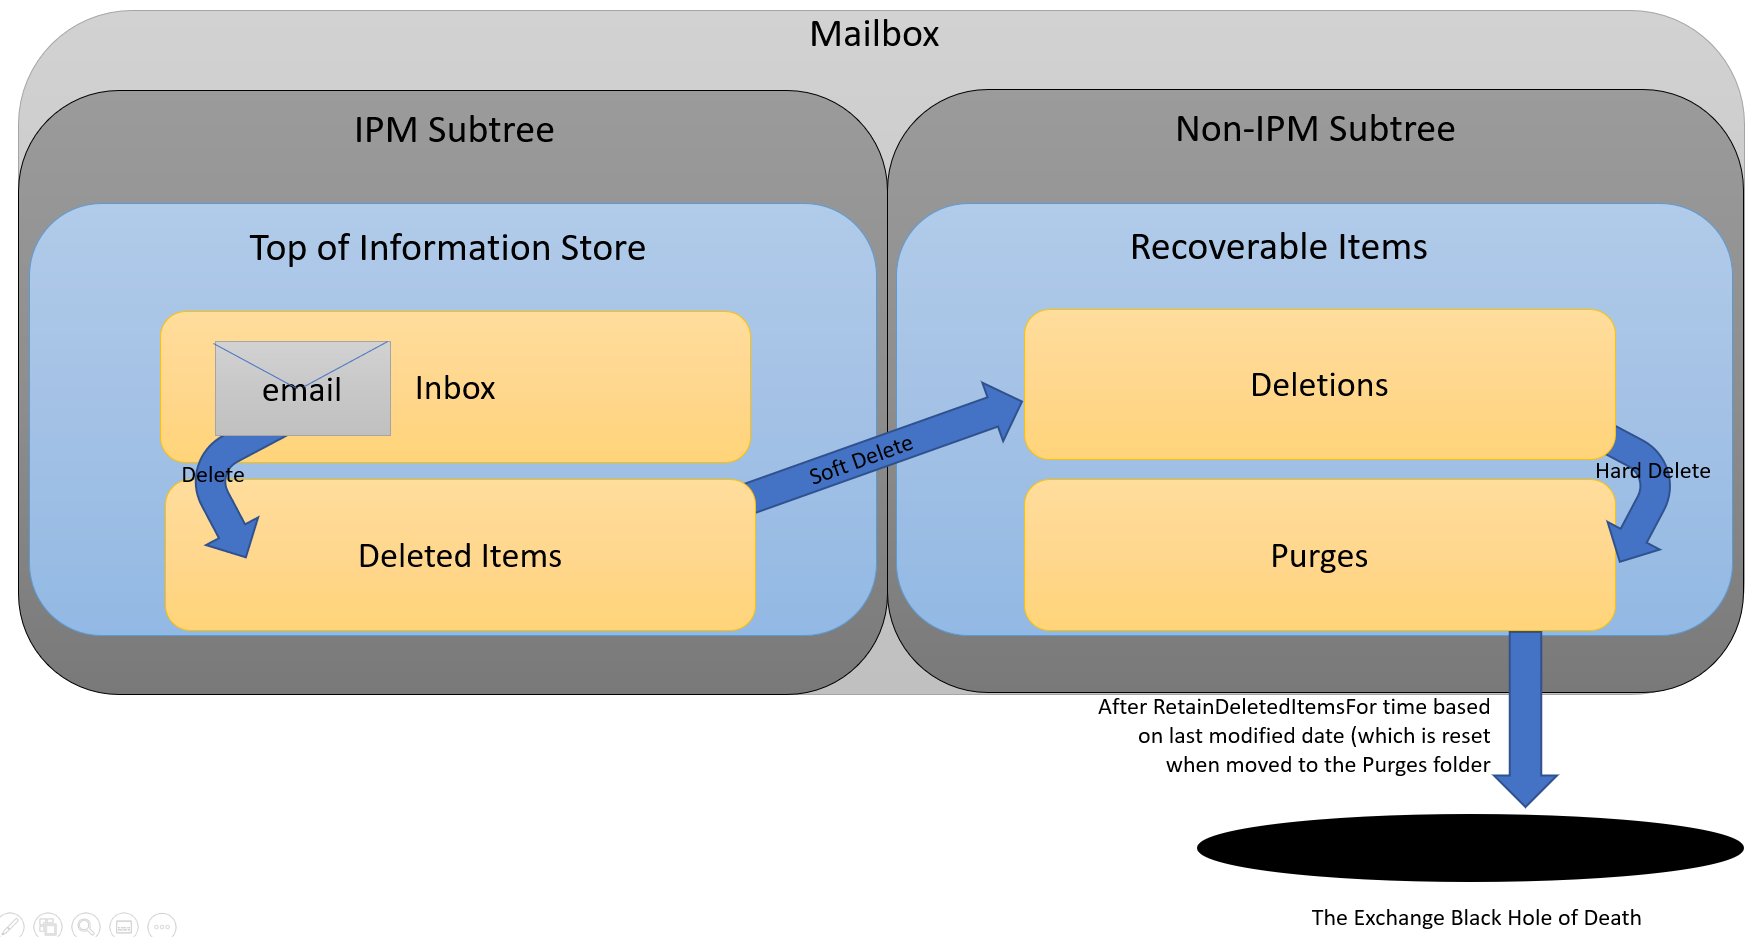
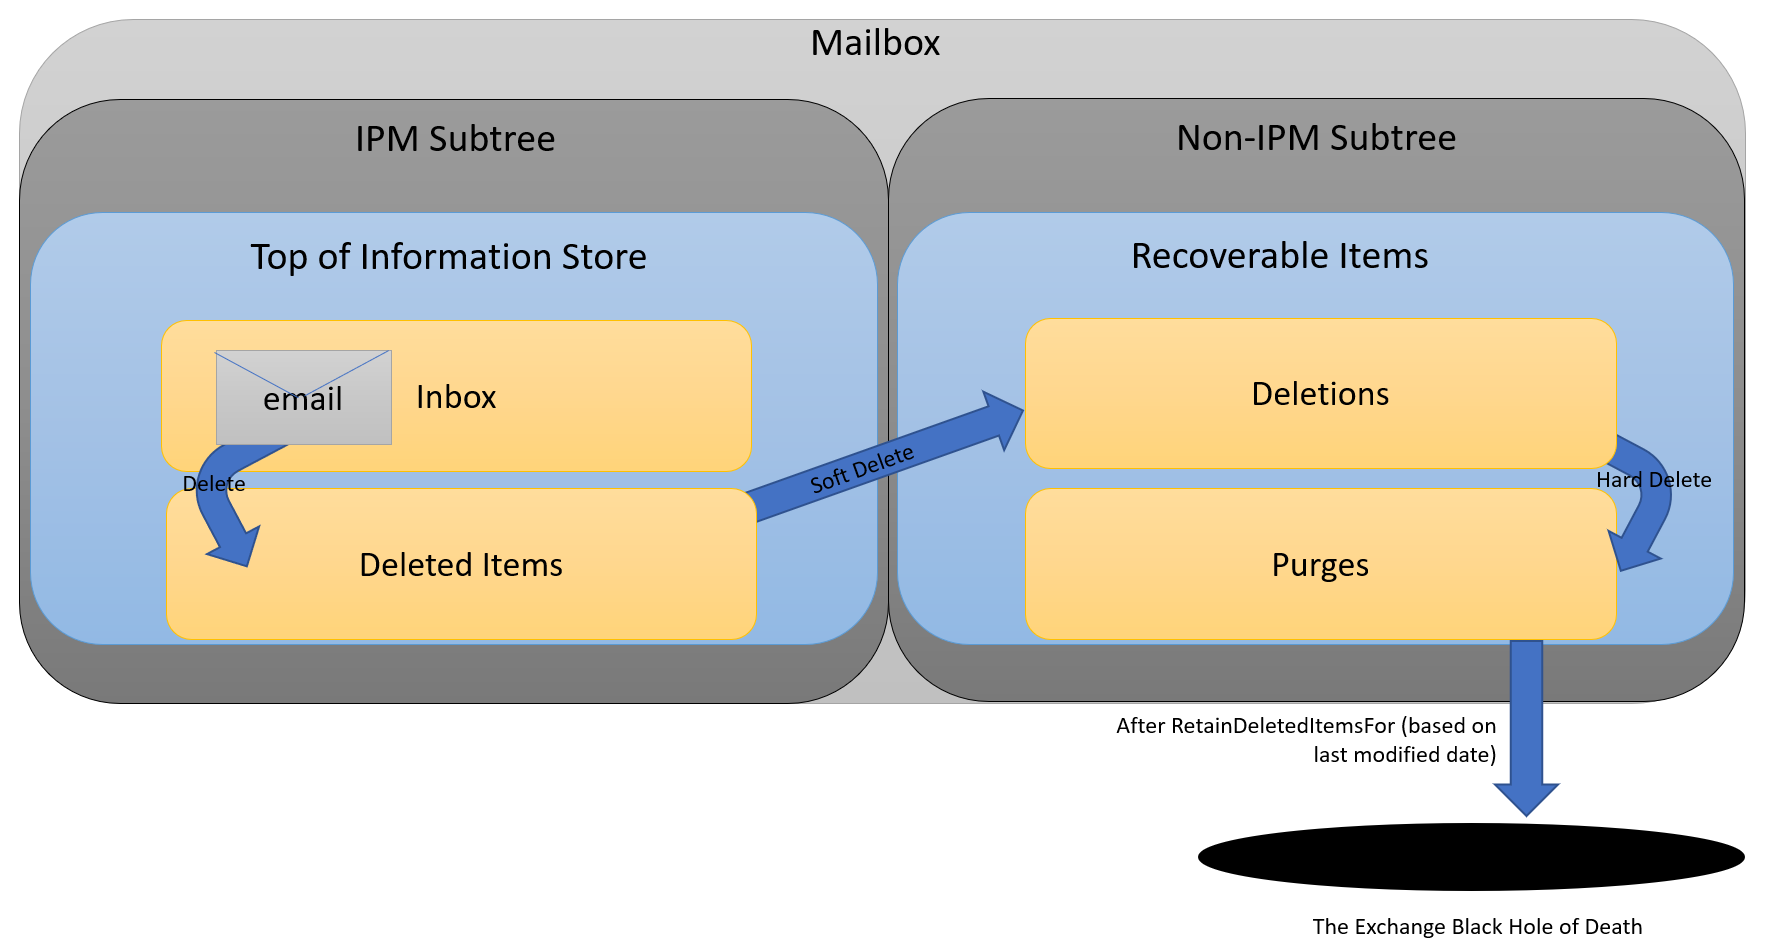
updates to ri post

diff --git a/docs/notes/mig/ri.md b/docs/notes/mig/ri.md
@@ -31,11 +31,11 @@ The Exchange mailbox can be a mysterious place.  Many people see only the face o
 
 Within the mailbox, two logical containers exist.  The first, in which most of the user-interactive and visible data is stored, is called the ‘IPM Subtree’ (or Top of Information Store).  This is exactly as it sounds –it is – to the user - the top level folder of the information store within the mailbox and houses familiar user-visible folders such as ‘Inbox’, ‘Contacts’, ‘Calendar’, ‘Deleted Items’, etc.  
 
-The second container is called the ‘non-IPM subtree’, and contains operational and configuration data related to the mailbox.  Within this non-IPM subtree, and thus virtually invisible to the user (as a folder), is a location called the Recoverable Items folder which houses it’s own set of subfolders used for various purposes including storing audit logs, calendar logging information and, of course, storing deleted items for recovery and/or retention.
+The second container is called the ‘non-IPM subtree’, and contains operational and configuration data related to the mailbox.  Within this non-IPM subtree, and thus virtually invisible to the user (as a folder), is a location called the **Recoverable Items (RI) folder** which houses it’s own set of subfolders used for various purposes including storing audit logs, calendar logging information and, of course, storing deleted items for recovery and/or retention.
 
 ## Deletions
 
-When items are deleted from their original location, they are generally (unless deleted with SHIFT + DELETE) first sent to the ‘Deleted Items’ folder within the IPM Subtree.  This is a sort of visible safety net that provides users another chance to restore something if it was accidentally deleted.  However, if permanently deleted, or if deleted from the Deleted Items folder (otherwise known as a soft delete), it is then sent to the Deletions subfolder within the Recoverable Items folder, which is another, less visible safety net.  Items in this folder [can be restored or purged by the user](https://support.microsoft.com/en-us/office/recover-deleted-items-or-email-in-outlook-web-app-c3d8fc15-eeef-4f1c-81df-e27964b7edd4) for as long as the mailbox is [configured to keep deleted items for](https://docs.microsoft.com/en-us/exchange/recipients-in-exchange-online/manage-user-mailboxes/change-deleted-item-retention) - referred to as **RetainDeletedItemsFor** value, which, in EXO is 14 days by default, expandable to up to 30 days. 
+When items are deleted from their original location, they are generally (unless deleted with SHIFT + DELETE) first sent to the ‘Deleted Items’ folder within the IPM Subtree.  This is a sort of visible safety net that provides users another chance to restore something if it was accidentally deleted.  However, if permanently deleted, or if deleted from the Deleted Items folder (otherwise known as a [soft delete](https://docs.microsoft.com/en-us/exchange/security-and-compliance/recoverable-items-folder/recoverable-items-folder#terminology)), it is then sent to the **Deletions** subfolder within the Recoverable Items folder, which is another less visible safety net.  Items in this folder [can be restored or purged by the user in Outlook or Outlook on the Web (OWA)](https://support.microsoft.com/en-us/office/recover-deleted-items-or-email-in-outlook-web-app-c3d8fc15-eeef-4f1c-81df-e27964b7edd4) for as long as the mailbox is [configured to keep deleted items for](https://docs.microsoft.com/en-us/exchange/recipients-in-exchange-online/manage-user-mailboxes/change-deleted-item-retention).  This configuration is referred to as the **RetainDeletedItemsFor** value which, in Exchange Online, is 14 days by default, expandable to up to 30 days. 
 
 The following diagram gives a very high level view of the *user visible* deletion process:
 
@@ -44,7 +44,7 @@ The following diagram gives a very high level view of the *user visible* deletio
     <figcaption>Figure 1: Diagram of deleting mailbox content without any holds or retention applied.</figcaption>
 </figure>
 
-To put it simply, the deletions subfolder within the RI is a built-in feature to help ensure managing data in Exchange is somewhat accident-proof for the user.  However, as easy as it is to restore items from the RI, users can also purge (or hard delete) items.  So what happens in the case of malicious intent?  How can an organization be sure to retain items related to litigation, regulation or company policy?  That’s where holds and retention are necessary – but since the Deletions subfolder in the RI is visible to the user, we needed another place to store items affected by retention and holds.
+To put it simply, the deletions subfolder within the RI is a built-in feature to help ensure managing data in Exchange is somewhat accident-proof for the user.  However, as easy as it is to restore items from the RI, users can also purge (or [hard delete](https://docs.microsoft.com/en-us/exchange/security-and-compliance/recoverable-items-folder/recoverable-items-folder#terminology)) items.  So what happens in the case of malicious intent?  How can an organization be sure to retain items related to litigation, regulation or company policy?  That’s where holds and retention are necessary – but since the Deletions subfolder in the RI is visible to the user, we needed another place to store items affected by retention and holds.
 
 ## When Retention or Holds Apply
 
@@ -59,19 +59,19 @@ Within the RI, other than the deletions folder, there are [several other subfold
 
 ### Purges
 
-The Purges folder should be considered the beginning of a deleted item's retention journey.  All items hard deleted from the Deletions folder end up in the Purges folder.  Depending on the type of hold - if there is a hold at all - the items may then move to other folders.  
+The **Purges** folder should be considered the beginning of a deleted item's retention journey within a mailbox.  *All items hard deleted from the Deletions folder end up in the Purges folder*.  Depending on the type of hold - if there is a hold at all - the items may then move to other folders.  
 
 #### Single Item Recovery
 
 The first scenario we wanted to cover here was if there was no retention or holds applied to the mailbox.  But wait - didn't we discuss that above? Yes - however there's some extra *non user visible* things happening in the background.
 
-Exchange Online has a feature called single item recovery, which is enabled on every mailbox by default.  The purpose of this feature is to allow administrators a short amount of time to restore purged items without needing to rely on a backup of the mailbox. It will retain any items that have been hard deleted within the Purges folder for as long as the RetainDeletedItemsFor value is configured, based on the last modified time of the item.  
+Exchange Online has a feature called [single item recovery](https://docs.microsoft.com/en-us/exchange/security-and-compliance/recoverable-items-folder/recoverable-items-folder#single-item-recovery), which is enabled on every mailbox by default.  The purpose of this feature is to allow administrators a short amount of time to restore purged items without needing to rely on a backup of the mailbox. It will retain any items that have been hard deleted within the Purges folder for as long as the **RetainDeletedItemsFor** value is configured, *based on the last modified time of the item*.  
 
 !!! note
-    The last modified time of the item is updated any time a modification is made including moving from the Deletions folder to the Purges folder.
+    The last modified time of the item is updated **any time a modification is made** including moving from the Deletions folder to the Purges folder.
 
 !!! example
-    A user does not have any retention policy or hold applied to their mailbox and the RetainDeletedItemsFor value is the default of 14 days.  
+    *A user does not have any retention policy or hold applied to their mailbox and the RetainDeletedItemsFor value is the default of 14 days.* 
     
     The user deletes an email message from the inbox then soft deletes it from the Deleted items folder.  7 days later, the user goes into the Deletions folder within Outlook or OWA and hard deletes the message.  At this point, single item recovery will move the message to the Purges folder, where it will remain for 14 days before finally being purged.
 
@@ -82,14 +82,14 @@ Exchange Online has a feature called single item recovery, which is enabled on e
 
 #### Absolute hold vs Query-based hold
 
-Now, before we move on to the other scenarios, it's important to distinguish that there are two concepts of holds:  **Query-based** and **absolute**.  
+Now, before we move on to the other scenarios, it's important to distinguish that there are two concepts of holds within the mailbox:  **Query-based** and **Absolute**.  
 
 ##### Absolute hold
 
-Absolute holds are basically defined as when litigation hold or delay hold is enabled without a LitigationHoldDuration defined.  This was our first type of hold with Exchange on-premises, whereas the entire mailbox was required to be kept forever.  Because there was no further evaluation needed of what to keep and what not to keep, items simply remained within the Purges folder until lithold was disabled.
+Absolute holds are basically defined as when litigation hold or [delay hold](https://docs.microsoft.com/en-us/microsoft-365/compliance/identify-a-hold-on-an-exchange-online-mailbox?view=o365-worldwide#managing-mailboxes-on-delay-hold) is enabled without a [LitigationHoldDuration](https://docs.microsoft.com/en-us/Exchange/policy-and-compliance/holds/litigation-holds?view=exchserver-2019#use-the-exchange-management-shell-to-place-a-mailbox-on-litigation-hold-and-preserve-items-for-a-specified-duration) defined.  This was our first type of hold with Exchange on-premises, whereas the entire mailbox was required to be kept forever.  Because there was no further evaluation needed of what to keep and what not to keep, items simply remained within the Purges folder until lithold was disabled.
 
 !!! important
-    Because they always apply to the entire mailbox, absolute holds always take precedence over any other type of hold.
+    Because they always apply to the entire mailbox, **absolute holds always take precedence over any other type of hold**.
 
 <figure>
     <img src="../../img/ri-3.png"/> 
@@ -108,16 +108,16 @@ Eventually, however, simply applying a hold to the entire mailbox was not flexib
 
 * eDiscovery holds with any duration of retention
 
-Because of the many possible conditions, we needed a way to evaluate content to identify if it met the conditions specified within the hold.  Since we already use the Purges folder for absolute holds, we needed to create a new subfolder - DiscoveryHolds.
+Because of the many possible conditions, we needed a way to evaluate content to identify if it met the conditions specified within the hold.  Since we already use the Purges folder for absolute holds, we needed to create a new subfolder - **DiscoveryHolds**.
 
 ### DiscoveryHolds
 
-As mentioned above, the DiscoveryHolds folder is used to evaluate and then keep items that match a query-based hold.  However, as also mentioned above, the purges folder is always used first.
+As mentioned above, the DiscoveryHolds folder is used to evaluate and then keep items that match a query-based hold.  However, as also mentioned above, the *purges folder is always used first*.
 
-This is where the RetainDeletedItemsFor configuration is again important.  As the items reach their configured time within the Purges folder, if a query based hold is applied to the mailbox (with no absolute hold specified), the items will then be moved to the DiscoveryHolds folder.
+This is where the **RetainDeletedItemsFor** configuration is again important.  As the items reach their configured time within the Purges folder, if a query based hold is applied to the mailbox (with no absolute hold specified), the items will then be moved to the DiscoveryHolds folder.
 
 !!! example
-    A user has an org-wide Microsoft 365 retention policy applied to their mailbox, Litigation hold is disabled and the RetainDeletedItemsFor value is the default of 14 days.  
+    *A user has an org-wide Microsoft 365 retention policy applied to their mailbox, Litigation hold is disabled and the RetainDeletedItemsFor value is the default of 14 days.*  
     
     The user deletes an email from their inbox, then soft deletes the message from the deleted items folder.  After 7 days, the user hard deletes the message from the Deletions folder.  The message is then stored within the Purges folder for 14 days before being moved to the DiscoveryHolds folder to remain until no longer subject to the applied retention policy.
 
@@ -128,14 +128,16 @@ This is where the RetainDeletedItemsFor configuration is again important.  As th
 
 ### Versions
 
-Then finally – the Versions folder.  Consider that we've intentionally enabled some kind of retention policy or hold on a mailbox - meaning we need to make sure for either regulatory, legal or other reasons, that we don't delete anything affected by the hold.  Now, consider - what if an object is modified?  We, of course, need to make sure that we keep all versions or instances of each item as it is modified.  That's what the Versions folder is for - to keep the original copy of the item as well as all versions *before* the modification is made.  This capability relies on an Exchange feature called Copy-on-Write (COW) page protection which triggers a copy any time certain properties of an Exchange object are modified.
+Then finally – the **Versions** folder.  Consider that we've intentionally enabled some kind of retention policy or hold on a mailbox - meaning we need to make sure for either regulatory, legal or other reasons, that we don't delete anything affected by the hold.  
+
+Now, consider - *what if an object is modified*?  We, of course, need to make sure that we keep all versions or instances of each item as it is modified.  That's what the Versions folder is for - to keep the original copy of the item as well as all versions *before* the modification is made.  This capability relies on an Exchange feature called [Copy-on-Write (COW) page protection](https://docs.microsoft.com/en-us/exchange/security-and-compliance/recoverable-items-folder/recoverable-items-folder#copy-on-write-page-protection-and-modified-items) which triggers a copy any time [certain properties](https://docs.microsoft.com/en-us/exchange/security-and-compliance/recoverable-items-folder/recoverable-items-folder#copy-on-write-page-protection-and-modified-items) of an Exchange object are modified.
 
 !!! example
-    A user has an eDiscovery hold applied to their mailbox, Litigation hold is disabled and the RetainDeletedItemsFor value is the default of 14 days.
+    *A user has an eDiscovery hold applied to their mailbox, Litigation hold is disabled and the RetainDeletedItemsFor value is the default of 14 days.*
     
     The user sends an email to their personal email address with an attachment. After sending, they go into their Sent items, and choose to remove the attachment.  Then they delete, soft delete and hard delete the sent message.
 
-    When the user removes the attachment, Exchange will copy the original version of the message (with the attachment) to the Versions folder *before* removing the attachment.  When the user hard deletes the message, it will be retained in the Purges folder for 14 days, then moved to the DiscoveryHolds folder.  Both the original sent message and the deleted modified message will be discoverable via eDiscovery searches.  Both will be removed once the eDiscovery hold is removed.
+    When the user removes the attachment, Exchange will copy the original version of the message (with the attachment) to the Versions folder *before* removing the attachment.  When the user hard deletes the message, it will be retained in the Purges folder for 14 days, then moved to the DiscoveryHolds folder.  Both the original sent message and the deleted modified message will be discoverable via eDiscovery searches and both will be removed once the eDiscovery hold is removed.
 
 <figure>
     <img src="../../img/ri-5.png"/> 
@@ -144,7 +146,7 @@ Then finally – the Versions folder.  Consider that we've intentionally enabled
 
 ## Quota
 
-One of the benefits of the recoverable items folder is that it has a quota separate from that of the user's mailbox.  This is actually incredibly important.  The recoverable items folder should be completely seamless to the user (in other words, they user should have no idea it exists) - if it shared the same quota as the mailbox, all kinds of potential issues could arise, such as preventing the user from sending/receiving email because they unintentionally deleted too many things that were subject to a hold.  
+One of the benefits of the recoverable items folder is that it has a [quota separate from that of the user's mailbox](https://docs.microsoft.com/en-us/exchange/security-and-compliance/recoverable-items-folder/recoverable-items-folder#recoverable-items-mailbox-quotas).  *This is actually incredibly important*.  The recoverable items folder should be completely seamless to the user (in other words, they user should have no idea it exists) - if it shared the same quota as the mailbox, all kinds of potential issues could arise, such as preventing the user from sending/receiving email because they unintentionally deleted too many things that were subject to a hold.  
 
 In Exchange Online, the following quota's exist:
 
@@ -155,9 +157,9 @@ In Exchange Online, the following quota's exist:
 
 ### Online Archive
 
-While the recoverable items folder having a separate quota from the mailbox greatly reduces the chance of users being impacted by retention policies or holds, there are still is still a potential risk.  If, for some reason, the RI folder exceeds it's quota, users will no longer be able to delete items. To prevent this, it is highly recommended to use Online Archiving.
+While the recoverable items folder having a separate quota from the mailbox greatly reduces the chance of users being impacted by retention policies or holds, there is still a potential risk.  If, for some reason, the RI folder exceeds it's quota, users will no longer be able to delete items. To prevent this, it is highly recommended to use [Online Archiving](https://docs.microsoft.com/en-us/office365/servicedescriptions/exchange-online-archiving-service-description/exchange-online-archiving-service-description).
 
-A default MRM tag exists out of the box which, if Online Archiving is enabled, automatically moves items that are 14 days or older from the primary RI folder to the RI folder within the online archive.  This helps to ensure that the RI folder doesn't exceed it's quota as the online archive has it's own RI folder with its own Archive:
+A [default MRM tag exists out of the box](https://docs.microsoft.com/en-us/microsoft-365/compliance/increase-the-recoverable-quota-for-mailboxes-on-hold?view=o365-worldwide) which, if Online Archiving is enabled, automatically moves items that are 14 days or older from the primary RI folder to the RI folder within the online archive.  This helps to ensure that the RI folder doesn't exceed it's quota as the online archive has it's [own RI folder](https://docs.microsoft.com/en-us/microsoft-365/compliance/increase-the-recoverable-quota-for-mailboxes-on-hold?view=o365-worldwide):
 
 | Location | Not on Hold | On Hold |
 | --- | --- | --- |
@@ -165,10 +167,27 @@ A default MRM tag exists out of the box which, if Online Archiving is enabled, a
 | Recoverable Items Folder (Archive) | 30 GB | 100 GB | 
 
 !!! note
-    The auto-expanding capabilities of the online archive also apply to the recoverable items folder within the archive.
+    The [auto-expanding capabilities](https://docs.microsoft.com/en-us/microsoft-365/compliance/enable-unlimited-archiving?view=o365-worldwide) of the online archive [also apply to the recoverable items folder within the archive](https://techcommunity.microsoft.com/t5/exchange-team-blog/office-365-auto-expanding-archives-faq/ba-p/607784).
 
 ## Conclusion
 
 We hope that you enjoyed this journey into the Exchange mailbox from a retention and hold perspective.  Please feel free to submit feedback or suggest edits using the links at the top of this article.
 
+## Additional Resources
+
+* [How to identify the type of hold placed on an Exchange Online mailbox](https://docs.microsoft.com/en-us/microsoft-365/compliance/identify-a-hold-on-an-exchange-online-mailbox?view=o365-worldwide)
+
+* [How to clean up or delete items from the RI folder](https://docs.microsoft.com/en-us/exchange/security-and-compliance/recoverable-items-folder/clean-up-deleted-items)
+
+
+---
+
 **Brendon Lee** - *Compliance CxE*
+
+*With contributions from:*
+
+* *Randall Galloway*
+
+* *Stefanie Bier*
+
+* *David Santamaria*
